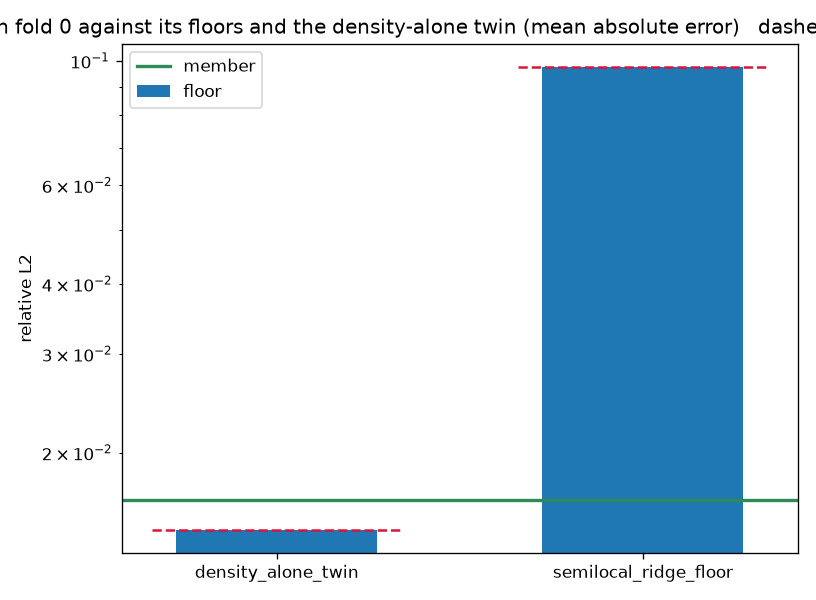
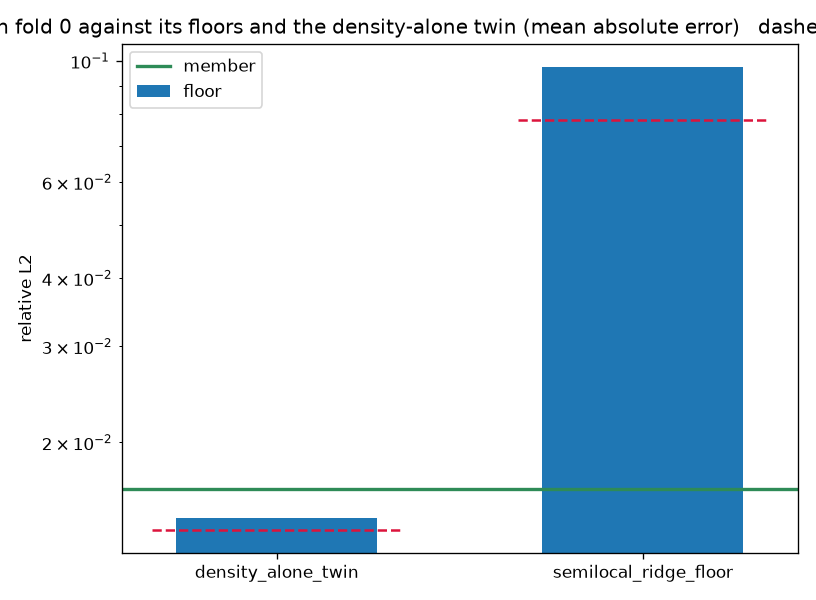
The two-input member's floors figure draws each bar's pre-registered pass level (twenty percent under the semilocal ridge, five percent under the density-alone twin) instead of a dashed line at zero: Write_Evaluation_Figures passes the recorded margins, and figures/fold_0/floors.png is re-rendered f

diff --git a/operators/multiple_input_operator_network/report.py b/operators/multiple_input_operator_network/report.py
@@ -538,10 +538,12 @@ def Write_Evaluation_Figures(
         FIGURES_PATH / "fold_0" / "error_by_campaign.png",
         "electron localization fold 0 evaluation error by campaign (mean absolute error)",
     )
+    # the dashed level is the pre-registered pass level of each bar, not the floor itself
+    required = {"semilocal_ridge_floor": PATTERN_RULE_MARGIN, "density_alone_twin": DECISIVE_TWIN_MARGIN}
     Render_Floor_Comparison(
         floor_medians,
         member_median,
-        {name: 0.0 for name in floor_medians},
+        {name: required.get(name, 0.0) for name in floor_medians},
         FIGURES_PATH / "fold_0" / "floors.png",
         "electron localization fold 0 against its floors and the density-alone twin (mean absolute error)",
     )
